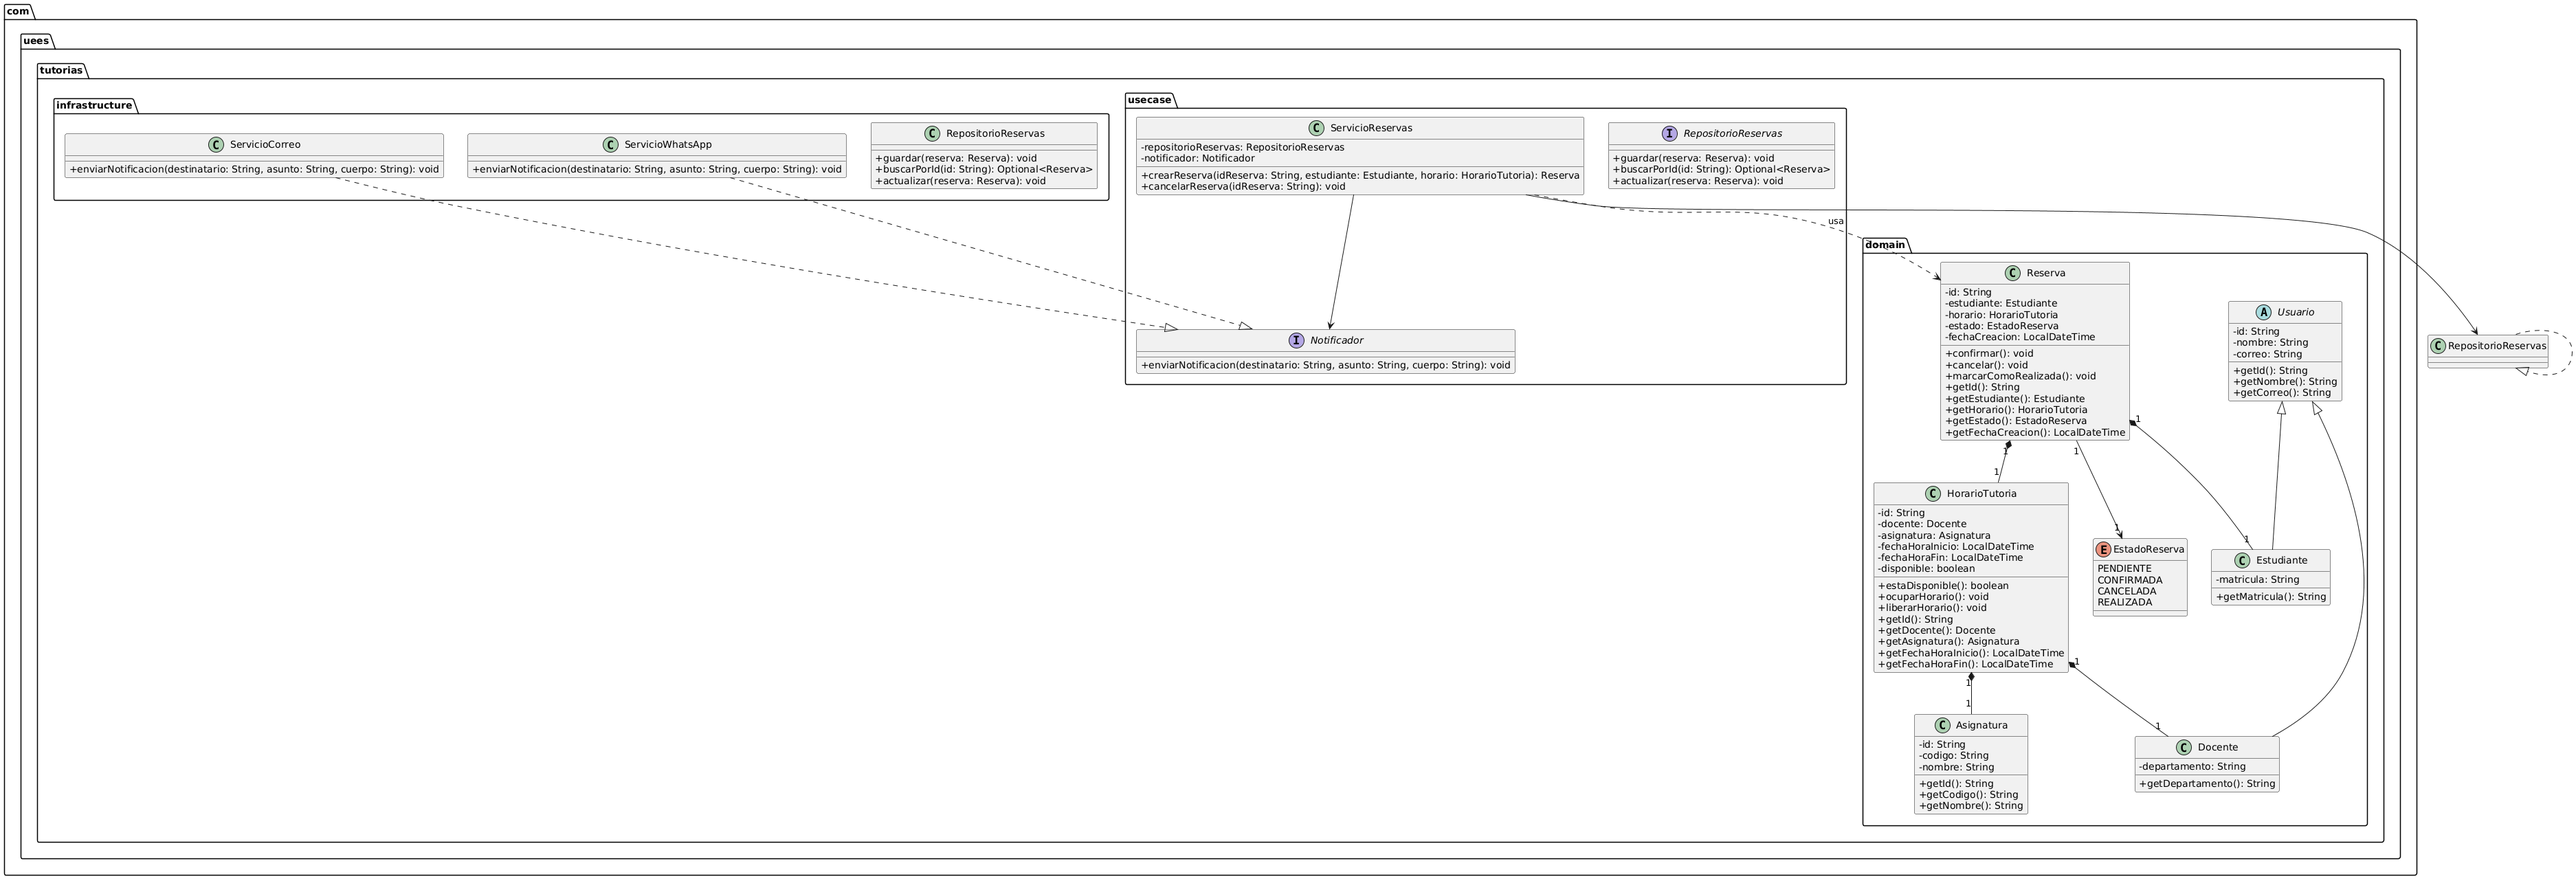
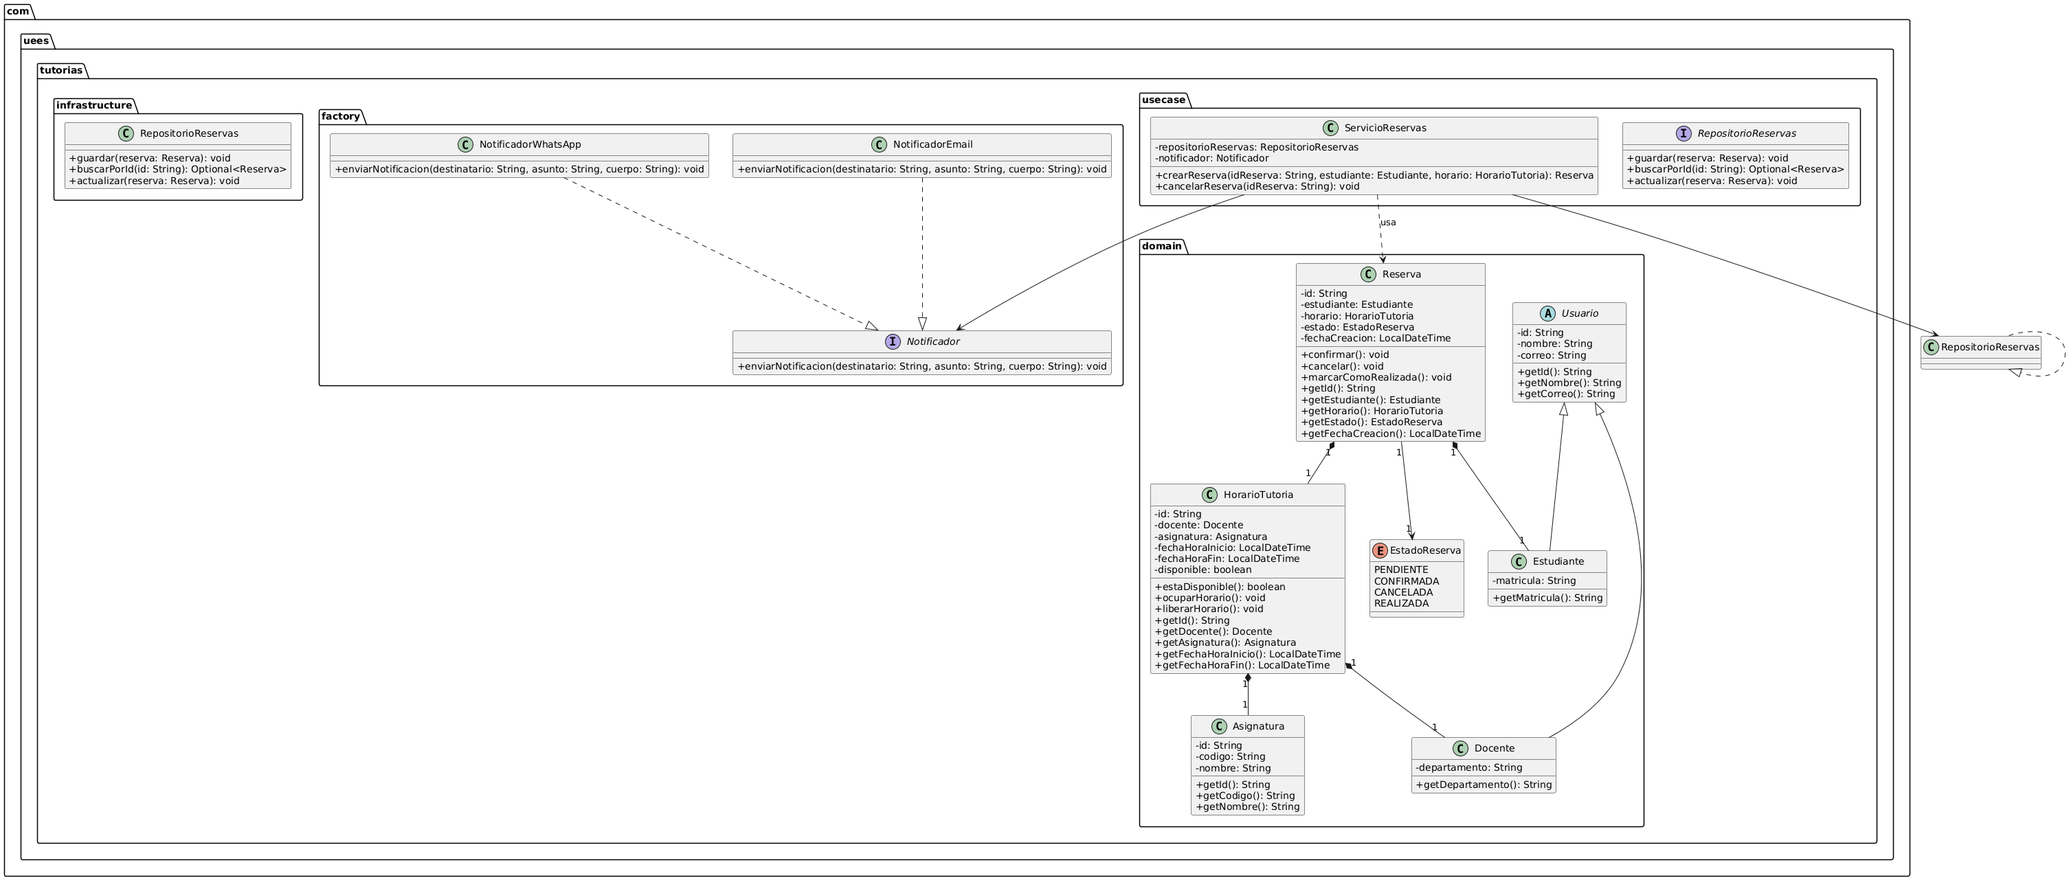
refactor: mover la interface notificador y sus implementaciones dentro del package factory

diff --git a/src/main/java/edu/uees/tutorias/factory/NotificadorWhatsApp.java b/src/main/java/edu/uees/tutorias/factory/NotificadorWhatsApp.java
@@ -1,8 +1,6 @@
-package edu.uees.tutorias.infrastructure;
+package edu.uees.tutorias.factory;
 
-import edu.uees.tutorias.usecase.Notificador;
-
-public class ServicioCorreo implements Notificador {
+public class NotificadorWhatsApp implements Notificador {
 
     @Override
     public void enviarNotificacion(String destinatario, String asunto, String cuerpo) {

diff --git a/src/main/java/edu/uees/tutorias/factory/NotificadorEmail.java b/src/main/java/edu/uees/tutorias/factory/NotificadorEmail.java
@@ -1,8 +1,6 @@
-package edu.uees.tutorias.infrastructure;
+package edu.uees.tutorias.factory;
 
-import edu.uees.tutorias.usecase.Notificador;
-
-public class ServicioWhatsApp implements Notificador {
+public class NotificadorEmail implements Notificador {
 
     @Override
     public void enviarNotificacion(String destinatario, String asunto, String cuerpo) {

diff --git a/src/main/java/edu/uees/tutorias/usecase/ServicioReservas.java b/src/main/java/edu/uees/tutorias/usecase/ServicioReservas.java
@@ -3,6 +3,7 @@ package edu.uees.tutorias.usecase;
 import edu.uees.tutorias.domain.Estudiante;
 import edu.uees.tutorias.domain.HorarioTutoria;
 import edu.uees.tutorias.domain.Reserva;
+import edu.uees.tutorias.factory.Notificador;
 
 public class ServicioReservas {
     private final RepositorioReservas repositorioReservas;

diff --git a/src/main/java/edu/uees/tutorias/factory/Notificador.java b/src/main/java/edu/uees/tutorias/factory/Notificador.java
@@ -1,4 +1,4 @@
-package edu.uees.tutorias.usecase;
+package edu.uees.tutorias.factory;
 
 public interface Notificador {
     void enviarNotificacion(String destinatario, String asunto, String cuerpo);
